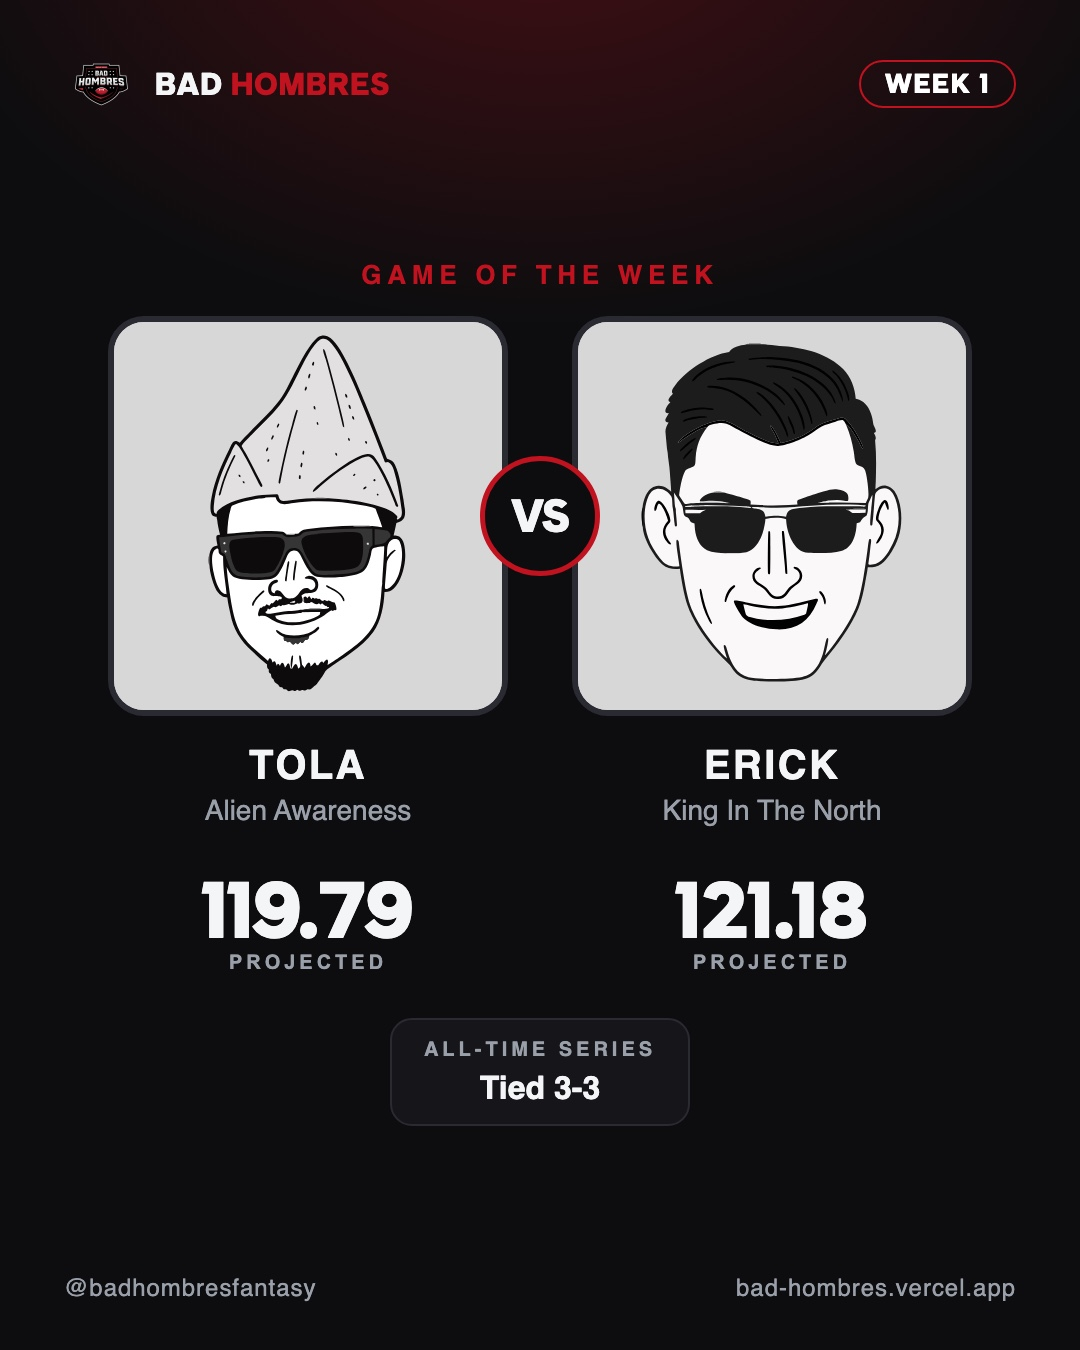
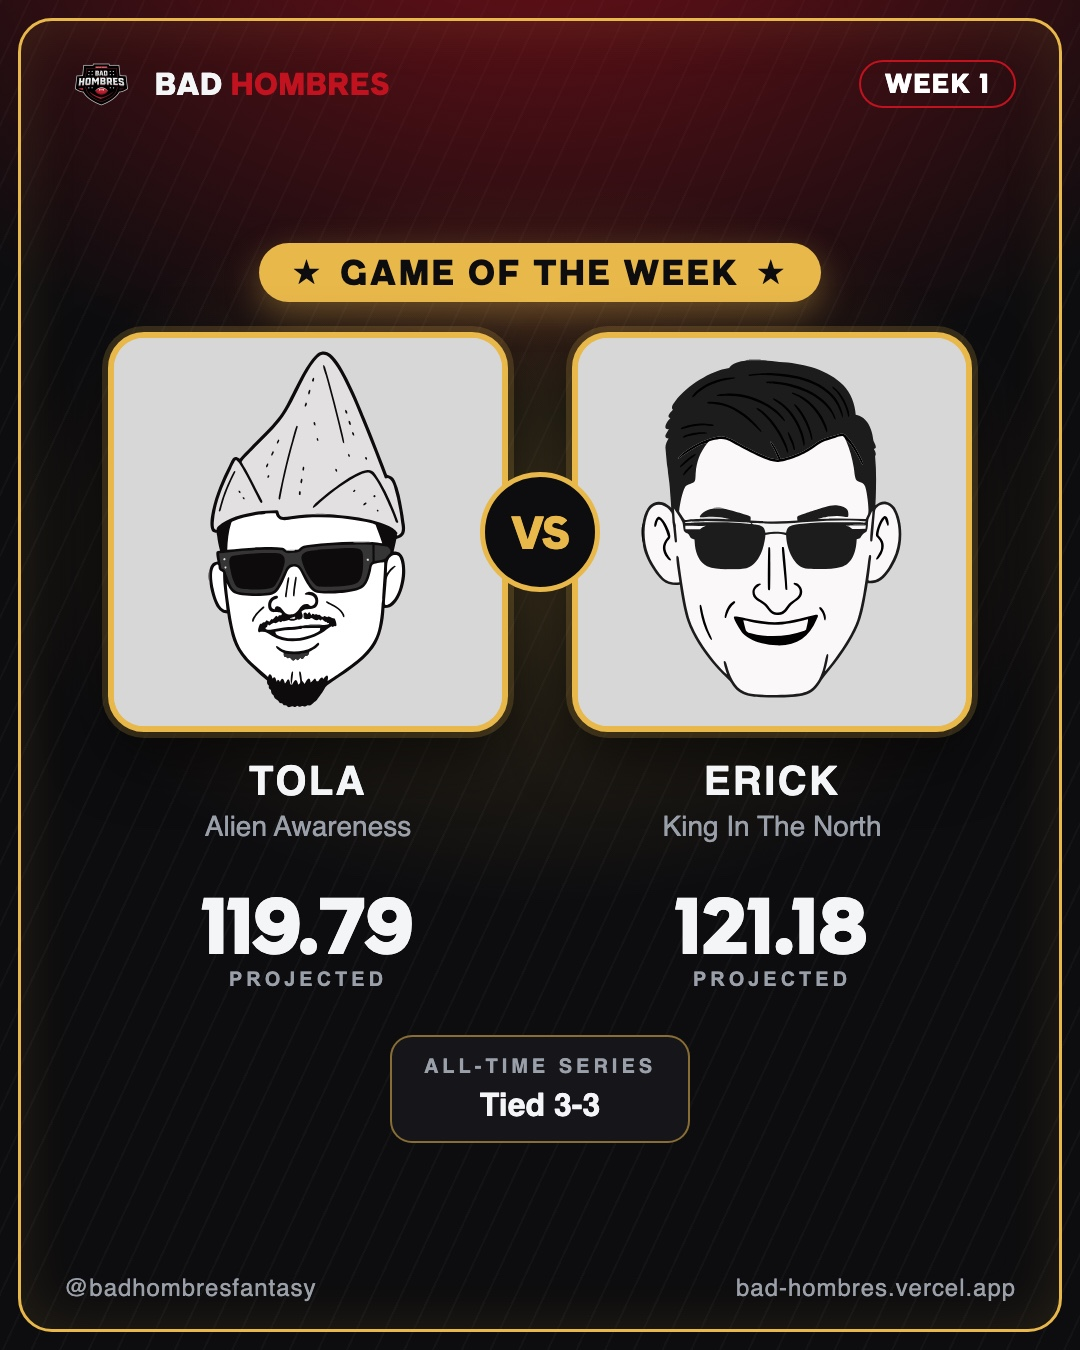
Matchup preview: prime-time Game of the Week, standings bookend, member tags
- The Game of the Week slide gets a gold frame, badge and spotlight
  background, identical on both sides so neither team is favored.
- The carousel closes on the standings going in (preseason rankings in
  week 1). The render refuses if season.json isn't through the prior week.
- ig-post.py @mentions every member listed in data/handles.json on each
  post; a caption that tags an account itself is refused. Handles are
  empty until the members' accounts are added.
- The Instagram preview caption moves to the Peter King voice.

Week 1's slides and caption are re-rendered for the repost.

diff --git a/scripts/social-render.py b/scripts/social-render.py
@@ -20,7 +20,8 @@ matchups  Thursday's preview: 1. the slate with projections  2-7. one slide per
        matchup's score and reason for the caption; the slides don't show it.
        Each matchup slide shows the all-time series from data/history.json.
        8. Pastor Wes's Lock of the Week, if one is open in data/voices.json.
-       Needs a week that hasn't kicked off.
+       Last: the standings going in (preseason rankings in week 1) as a bookend.
+       Needs a week that hasn't kicked off, and season.json through week N-1.
 
 Every image is 1080x1350 (Instagram's 4:5 portrait) JPEG. Each is built as a
 self-contained HTML page — fonts, art and illustrations inlined — and shot
@@ -144,6 +145,22 @@ CSS = """
 .sb .sub{color:var(--muted);font-size:26px;letter-spacing:.2em;font-weight:700;margin:-14px 0 24px}
 .row.fav .nm{color:#fff;font-weight:700}.row.fav .pt{color:#fff}.row.dog{opacity:.62}
 
+/* Game of the Week: prime-time treatment, identical on both sides */
+.frame.gotw{background:
+  radial-gradient(760px 520px at 50% 40%,rgba(232,184,75,.20),transparent 70%),
+  radial-gradient(1100px 760px at 50% -10%,rgba(193,18,31,.55),transparent 72%),
+  repeating-linear-gradient(115deg,rgba(255,255,255,.028) 0 2px,transparent 2px 26px),
+  var(--ink)}
+.frame.gotw::after{content:"";position:absolute;inset:18px;border:3px solid var(--gold);border-radius:34px;
+ pointer-events:none;box-shadow:inset 0 0 60px rgba(232,184,75,.12)}
+.gw-badge{align-self:center;display:inline-flex;align-items:center;gap:18px;margin:0 auto 30px;padding:14px 34px;
+ border-radius:999px;background:var(--gold);color:var(--ink);font-size:34px;letter-spacing:.08em;
+ box-shadow:0 12px 34px rgba(232,184,75,.35)}
+.gw-badge span{font-size:26px}
+.gotw .mp .side img{border-color:var(--gold);box-shadow:0 0 0 6px rgba(232,184,75,.18),0 26px 60px rgba(0,0,0,.55)}
+.gotw .mp .vs{border-color:var(--gold);color:var(--gold)}
+.gotw .mp .fact{border-color:rgba(232,184,75,.55)}
+
 /* Pastor Wes */
 .wl{flex:1;display:flex;flex-direction:column;align-items:center;justify-content:center;text-align:center}
 .wl img{width:440px;height:440px;border-radius:50%;border:10px solid var(--red);object-fit:cover;background:#d7d7d7;
@@ -173,11 +190,11 @@ CSS = """
 .bn .stat{margin-top:22px;font-size:32px}.bn .stat b{color:var(--gold)}
 """
 
-def frame(week, body):
-    return ('<div class="frame"><div class="top"><div class="brand"><img src="%s" alt="">'
+def frame(week, body, cls=""):
+    return ('<div class="frame %s"><div class="top"><div class="brand"><img src="%s" alt="">'
             '<span class="disp">BAD <b>HOMBRES</b></span></div><div class="wk disp">WEEK %s</div></div>'
             '%s<div class="foot"><span>%s</span><span>bad-hombres.vercel.app</span></div></div>') % (
-        data_uri("assets/logo.webp"), esc(week), body, HANDLE)
+        cls, data_uri("assets/logo.webp"), esc(week), body, HANDLE)
 
 def award_card(week, t, title, sub, loser=False):
     return frame(week, (
@@ -197,20 +214,26 @@ def scoreboard(week, ms):
                 "" if tie else cls, face(t["m"]), esc(t["t"]), fmt(t["s"])) for t, cls in ((hi, "w"), (lo, "l"))) + "</div>"
     return frame(week, '<div class="sb"><h1 class="disp">Week %s <em>Final</em></h1>%s</div>' % (esc(week), rows))
 
-def standings(week, season, names):
-    """Same order as the site: wins (ties count half), then points for."""
-    ts = sorted(season["teams"], key=lambda t: (-(t["w"] + t.get("tie", 0) * .5), -t.get("pf", 0)))
+def standings(week, season, names, title=None):
+    """Same order as the site: wins (ties count half), then points for. Before any
+    game is played there's nothing to sort, so it shows the latest power rankings
+    with no record or points — never a table of 0-0s."""
+    played = any(t["w"] + t["l"] + t.get("tie", 0) for t in season["teams"])
+    if played:
+        ts = sorted(season["teams"], key=lambda t: (-(t["w"] + t.get("tie", 0) * .5), -t.get("pf", 0)))
+    else:
+        by_m = {t["m"]: t for t in season["teams"]}
+        ts = [by_m[m] for m in sorted(by_m, key=lambda m: current_ranks(season)[m])]
     cut = season.get("playoffCut", 6)
     rows = ""
     for i, t in enumerate(ts):
         rec = "%d-%d" % (t["w"], t["l"]) + ("-%d" % t["tie"] if t.get("tie") else "")
-        rows += ('<div class="r%s"><span class="rk">%d</span><img src="%s" alt=""><span class="nm">%s</span>'
-                 '<span class="rec">%s</span><span class="pf">%s</span></div>') % (
-            " up" if i < cut else "", i + 1, face(t["m"]), esc(names.get(t["m"], t["t"])), rec, fmt(t.get("pf", 0)))
+        nums = '<span class="rec">%s</span><span class="pf">%s</span>' % (rec, fmt(t.get("pf", 0))) if played else "<span></span><span></span>"
+        rows += ('<div class="r%s"><span class="rk">%d</span><img src="%s" alt=""><span class="nm">%s</span>%s</div>') % (
+            " up" if i < cut else "", i + 1, face(t["m"]), esc(names.get(t["m"], t["t"])), nums)
         if i == cut - 1: rows += '<div class="cut"><span>PLAYOFFS</span></div>'
-    return frame(week, ('<div class="stn"><h1 class="disp">Standings After <em>Week %s</em></h1>'
-                        '%s</div>') % (
-        esc(week), rows))
+    title = title or 'Standings After <em>Week %s</em>' % esc(week)
+    return frame(week, '<div class="stn"><h1 class="disp">%s</h1>%s</div>' % (title, rows))
 
 def slate(week, ms):
     rows = ""
@@ -223,7 +246,7 @@ def slate(week, ms):
     return frame(week, '<div class="sb"><h1 class="disp">Week %s <em>Preview</em></h1><div class="sub">PROJECTED POINTS</div>%s</div>' % (
         esc(week), rows))
 
-def matchup(week, mu, label):
+def matchup(week, mu, label, gotw=False):
     a, b = mu["a"], mu["b"]
     def side(t):
         # both sides framed the same: nobody has won anything yet
@@ -231,8 +254,10 @@ def matchup(week, mu, label):
                 '<div class="pj disp">%s<small>PROJECTED</small></div></div>') % (
             face(t["m"]), esc(t["m"]), esc(t["t"]), fmt(t["p"]))
     facts = '<div class="fact"><span>ALL-TIME SERIES</span><b>%s</b></div>' % esc(series(a["m"], b["m"]))
-    return frame(week, ('<div class="mp"><div class="eyebrow">%s</div><div class="pair">%s<div class="vs disp">VS</div>%s</div>'
-                        '<div class="facts">%s</div></div>') % (esc(label), side(a), side(b), facts))
+    head = ('<div class="gw-badge disp"><span>&#9733;</span>%s<span>&#9733;</span></div>' % esc(label)) if gotw \
+        else '<div class="eyebrow">%s</div>' % esc(label)
+    return frame(week, ('<div class="mp">%s<div class="pair">%s<div class="vs disp">VS</div>%s</div>'
+                        '<div class="facts">%s</div></div>') % (head, side(a), side(b), facts), "gotw" if gotw else "")
 
 def wes_lock(week, lock, record, ms):
     teams = {t["m"]: t["t"] for mu in ms for t in (mu["a"], mu["b"])}
@@ -324,15 +349,22 @@ def main():
             picked = set(re.findall(r"[A-Z][a-z]+", lock["pick"]))
             if not any(pair(mu) == picked for mu in ms):
                 bail("Wes's lock %r isn't one of this week's matchups" % lock["pick"])
-        for old in out_dir.glob("matchups-*.jpg"): old.unlink()   # never leave a stale slide 8 behind
+        behind = [t["m"] for t in season["teams"] if t["w"] + t["l"] + t.get("tie", 0) != int(week) - 1]
+        if behind: bail("season.json isn't updated through week %d (%s) — the closing standings slide would be stale" % (int(week) - 1, ", ".join(behind)))
+        for old in out_dir.glob("matchups-*.jpg"): old.unlink()   # never leave a stale slide behind
         shoot(page(slate(week, ms), preview), out_dir / "matchups-1.jpg")
         rest = sorted((mu for mu in ms if mu is not first[0]),
                       key=lambda mu: -watchability(week, mu, ranks, season.get("playoffCut", 6))[0])
         print("  Game of the Week: %s vs %s — %s" % (gotw["a"], gotw["b"], gotw["reason"]))
         for i, mu in enumerate(first + rest):
             label = "Game of the Week" if i == 0 else "Matchup %d of 6" % (i + 1)
-            shoot(page(matchup(week, mu, label), preview), out_dir / ("matchups-%d.jpg" % (i + 2)))
-        if lock: shoot(page(wes_lock(week, lock, voices["wes"]["record"], ms), preview), out_dir / "matchups-8.jpg")
+            shoot(page(matchup(week, mu, label, gotw=(i == 0)), preview), out_dir / ("matchups-%d.jpg" % (i + 2)))
+        n = 8
+        if lock:
+            shoot(page(wes_lock(week, lock, voices["wes"]["record"], ms), preview), out_dir / "matchups-8.jpg"); n = 9
+        # the bookend: where everyone stands going in
+        title = "Preseason <em>Rankings</em>" if int(week) == 1 else "Standings Entering <em>Week %s</em>" % esc(week)
+        shoot(page(standings(week, season, {t["m"]: t["t"] for t in teams}, title), preview), out_dir / ("matchups-%d.jpg" % n))
         return
 
     if not preview and w.get("status") != "final": bail("week %s is not final yet" % week)

diff --git a/scripts/ig-post.py b/scripts/ig-post.py
@@ -122,9 +122,27 @@ def material(kind, data=None):
     if not cap_path.exists(): skip("no caption at %s" % cap_path.relative_to(ROOT))
     caption = cap_path.read_text().strip()
     if not caption: skip("caption is empty")
+    caption = with_mentions(caption)
     if len(caption) > 2200: die("caption is %d characters; Instagram allows 2200" % len(caption))
     if len(re.findall(r"#\w", caption)) > 30: die("caption has more than 30 hashtags")
     return week, imgs, caption
+
+def with_mentions(caption):
+    """@mention every member with a handle in data/handles.json, on its own line
+    before the hashtags. Mentions come only from that file — a caption may not
+    tag anyone itself (Instagram notifies whoever is tagged, stranger or not)."""
+    if re.search(r"(^|\s)@\w", caption): die("caption tags an account itself; mentions come only from data/handles.json")
+    hp = ROOT / "data" / "handles.json"
+    handles = [h.strip().lstrip("@") for h in (json.loads(hp.read_text())["handles"].values() if hp.exists() else []) if h.strip()]
+    bad = [h for h in handles if not re.fullmatch(r"[A-Za-z0-9._]{1,30}", h)]
+    if bad: die("not valid Instagram handles in data/handles.json: %s" % ", ".join(bad))
+    if len(handles) > 20: die("Instagram allows 20 mentions per caption; handles.json has %d" % len(handles))
+    if not handles: return caption
+    line = " ".join("@" + h for h in handles)
+    parts = caption.rstrip().rsplit("\n\n", 1)
+    if len(parts) == 2 and parts[1].lstrip().startswith("#"):          # keep hashtags last
+        return "%s\n\n%s\n\n%s" % (parts[0], line, parts[1])
+    return "%s\n\n%s" % (caption.rstrip(), line)
 
 def check_live(imgs, tries=8, wait=15):
     """Instagram fetches these itself, so they must be deployed — and be these exact files.

diff --git a/VOICE_GUIDE.md b/VOICE_GUIDE.md
@@ -26,7 +26,7 @@ recurring devices. Never reproduce their actual sentences.
 | Season-in-review / playoff omnibus | **Peter King** — the only format that holds a season | Berry narrative open | `voice/peter-king/02-architecture.md` |
 | Instagram recap carousel caption | **Peter King** — the recap compressed, award-header deadpan | one Magary button | "Instagram" below |
 | Instagram bonus award caption | **Peter King** — award-header deadpan | Berry's "Get this:" stat framing | "Instagram" below |
-| Instagram Thursday matchup preview caption | **Scott Van Pelt** — One Big Thing | — | "Instagram" below |
+| Instagram Thursday matchup preview caption | **Peter King** — the earnest preview, a Factoid | — | "Instagram" below |
 
 Kickoff and season-open pieces go to **Berry** (the narrative cold open is the tool for
 it). There is no fifth voice.
@@ -60,8 +60,11 @@ three differences:
 
 - **Nothing from the group chat.** No Chatnerdness, no quoted replies, no Zack reaction
   lines. What's said in the thread stays in the thread.
-- **First names and team names only** — the same as the site. Never tag a member's
-  personal account.
+- **First names and team names only** — the same as the site.
+- **Tagging is automatic, never written.** `scripts/ig-post.py` @mentions every member
+  listed in `data/handles.json` at the end of each post so everyone gets notified. A
+  caption never types an @ itself — the script refuses it, because Instagram notifies
+  whoever is tagged, stranger or not.
 - **The award names are the profanity.** "Big Dick of the Week" and "Little Bitch of the
   Week" carry the whole crude load; the caption's narrator stays clean (rule 3, applied
   harder). Instagram limits reach on profane captions, and the joke is funnier deadpan.
@@ -85,17 +88,24 @@ Caption is 2–4 lines: the award name as a King header, the winner and team, th
 won it framed Berry-style ("Get this: …"), then `Week N bonus · $9` and the same hashtags.
 
 **Thursday matchup preview** — slides are 1. the slate with projections, 2. the Game of
-the Week (the recorded one), 3–7. the other five matchups with the all-time series,
-8. Pastor Wes's Lock of the Week when he has one. The caption is Van Pelt's One Big Thing,
-300–800 characters:
+the Week (the recorded one, in the gold prime-time treatment), 3–7. the other five
+matchups with the all-time series, then Pastor Wes's Lock of the Week when he has one, and
+last the standings going in (preseason rankings in Week 1) as the bookend. The caption is
+**Peter King** — the earnest insider previewing the week, 400–900 characters:
 
-1. **The hook line** is the recorded Game of the Week — the same game the recap and the
-   iMessage opener named — with its reason in plain words. One point, made once.
-2. One or two lines on anything else worth a look: a lopsided projection, a long series
-   lead, a revenge game. Real numbers.
-3. If there's a lock: `Pastor Wes's Lock of the Week: <pick>. He is <w>-<l>.` Flat, no
-   commentary — the record is the joke.
-4. `Swipe for all six.` then the hashtags.
+1. **The hook** is the recorded Game of the Week — the same game the recap and the
+   iMessage opener named — told King's way: the series history and the stakes, reported
+   straight, a number with a comp. The first ~125 characters must carry it.
+2. **A Factoid That May Interest Only Me** — one real number from the slate that
+   delights the narrator more than it should (the closest projection, a long series
+   lead, a streak).
+3. If there's a lock: `Pastor Wes's Lock of the Week: <pick>. He is <w>-<l>.` Flat — King
+   reports it; the record is the joke.
+4. `Swipe for all six, and the standings at the end.` then the hashtags. No @ mentions —
+   the script adds them.
+
+King's rules hold: zero profanity and zero sarcasm in the narrator, every number real,
+"Good for you, ___" only if something has actually earned it.
 
 ---
 

diff --git a/scripts/UPDATE_WEEK.md b/scripts/UPDATE_WEEK.md
@@ -285,7 +285,7 @@ Two posts a week, both on Tuesday, both after the recap is published:
 |---|---|---|---|
 | Recap carousel | `social/week-N/recap-1..4.jpg` — Big Dick, Little Bitch, scoreboard, standings | `social/week-N/recap.txt` | `bad-hombres-ig-recap`, Tue 10:30am |
 | Bonus award | `social/week-N/award.jpg` — award art + winner's illustration | `social/week-N/award.txt` | `bad-hombres-ig-award`, Tue 6pm |
-| Matchup preview | `social/week-N/matchups-1..8.jpg` — slate, six matchups, Wes's lock | `social/week-N/matchups.txt` | `bad-hombres-ig-matchups`, Thu 4pm |
+| Matchup preview | `social/week-N/matchups-1..9.jpg` — slate, Game of the Week, five more matchups, Wes's lock, standings | `social/week-N/matchups.txt` | `bad-hombres-ig-matchups`, Thu 4pm |
 
 The weekly recap task renders the Tuesday images and writes both captions;
 the Thursday opener task does the same for the matchup preview (rules in
@@ -317,6 +317,8 @@ from `assets/awards/hd/wkN.jpg` (1080px; the 220px site versions are too small).
   board — after kickoff the projections are stale.
 - Captions over 2,200 characters or 30 hashtags are refused (Instagram would
   reject them anyway).
+- Every post @mentions the members listed in `data/handles.json` (added by the
+  script; captions may not tag anyone themselves).
 - Keyed `ig-recap-wN` / `ig-award-wN` / `ig-matchups-wN` in `~/.bad-hombres-posts.json`; nothing
   posts twice. A skip exits 0.
 
